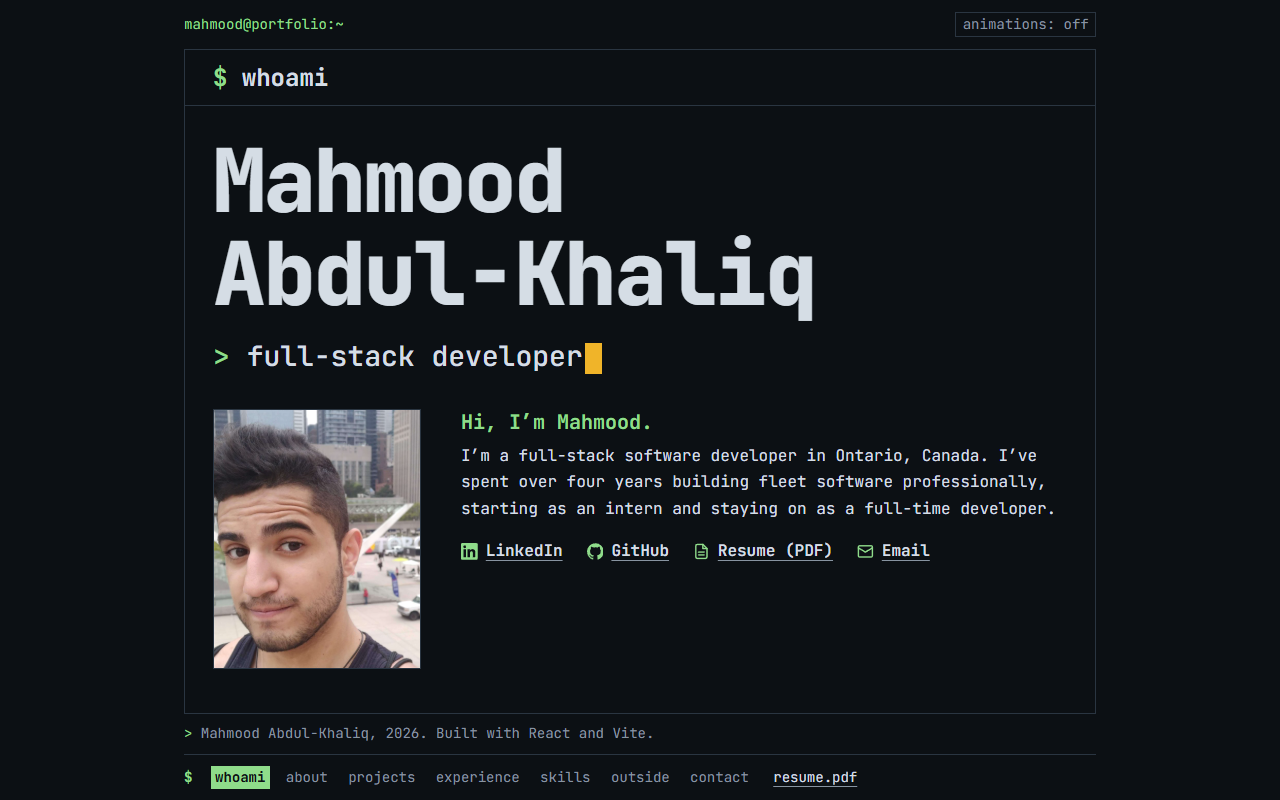
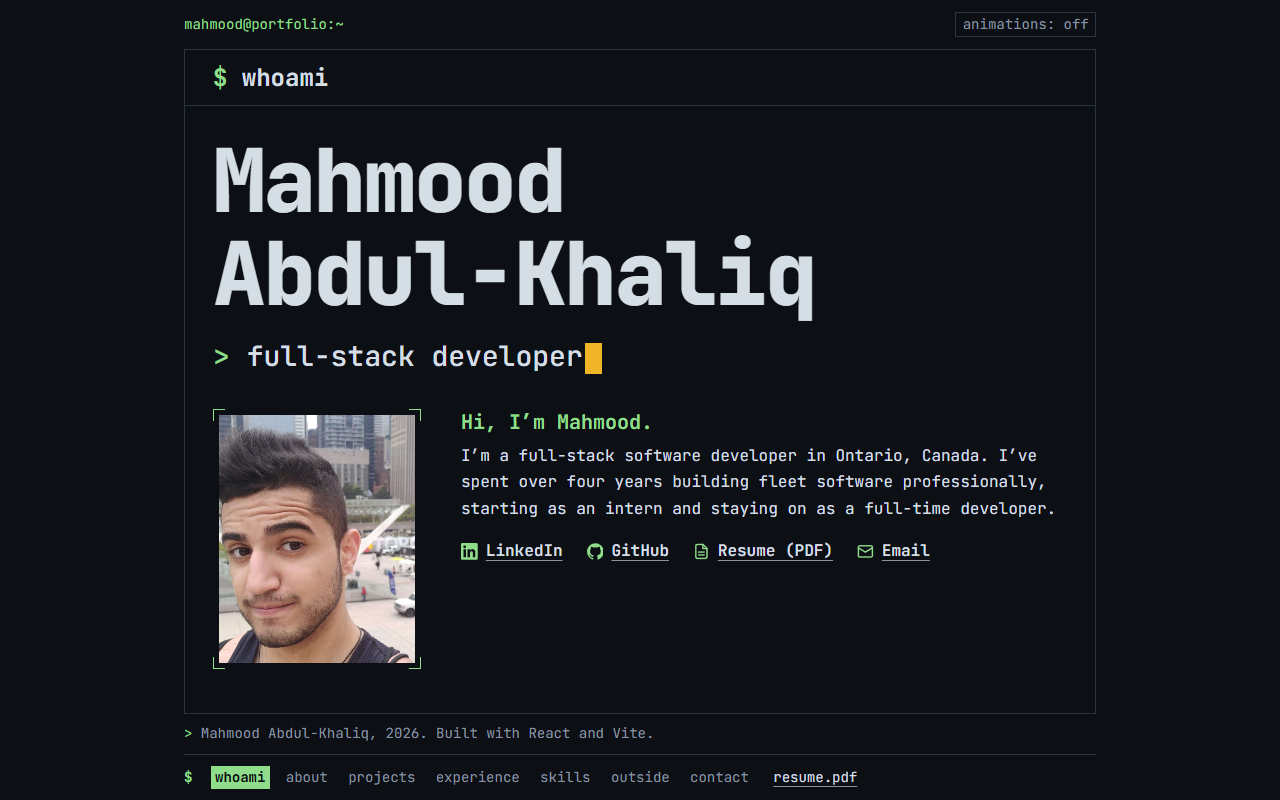
Frame images with corner brackets instead of a border

Changed region(s): [[0.1562, 0.5, 0.3438, 0.8438]]

diff --git a/src/components/Photo/Photo.css b/src/components/Photo/Photo.css
@@ -1,11 +1,27 @@
 /* ---------- Photos ---------- */
 
+/* An image is framed by four corner brackets, like box-drawing characters,
+   instead of a full border. They are drawn as background lines in the
+   padding around the image. `--corner` sets their colour. */
 .photo {
+  --corner: var(--green);
+  --across: 0.75rem 1px;
+  --down: 1px 0.75rem;
+  --line: linear-gradient(var(--corner), var(--corner));
   display: block;
   width: 100%;
   aspect-ratio: 1;
   object-fit: cover;
-  border: 1px solid var(--rule);
+  padding: 0.375rem;
+  background:
+    var(--line) top left / var(--across) no-repeat,
+    var(--line) top left / var(--down) no-repeat,
+    var(--line) top right / var(--across) no-repeat,
+    var(--line) top right / var(--down) no-repeat,
+    var(--line) bottom left / var(--across) no-repeat,
+    var(--line) bottom left / var(--down) no-repeat,
+    var(--line) bottom right / var(--across) no-repeat,
+    var(--line) bottom right / var(--down) no-repeat;
 }
 
 .portrait {
@@ -17,8 +33,7 @@
   display: grid;
   place-items: center;
   padding: 0.75rem;
-  border-style: dashed;
-  border-color: var(--dim);
+  border: 1px dashed var(--dim);
   background: repeating-linear-gradient(
     to bottom,
     transparent 0,

diff --git a/src/tabs/Projects/Projects.css b/src/tabs/Projects/Projects.css
@@ -100,7 +100,7 @@
 
 .project-shot-link:hover .project-shot,
 .project-shot-link:focus-visible .project-shot {
-  border-color: var(--amber);
+  --corner: var(--amber);
 }
 
 /* On a phone the screenshot sits above the text. */
